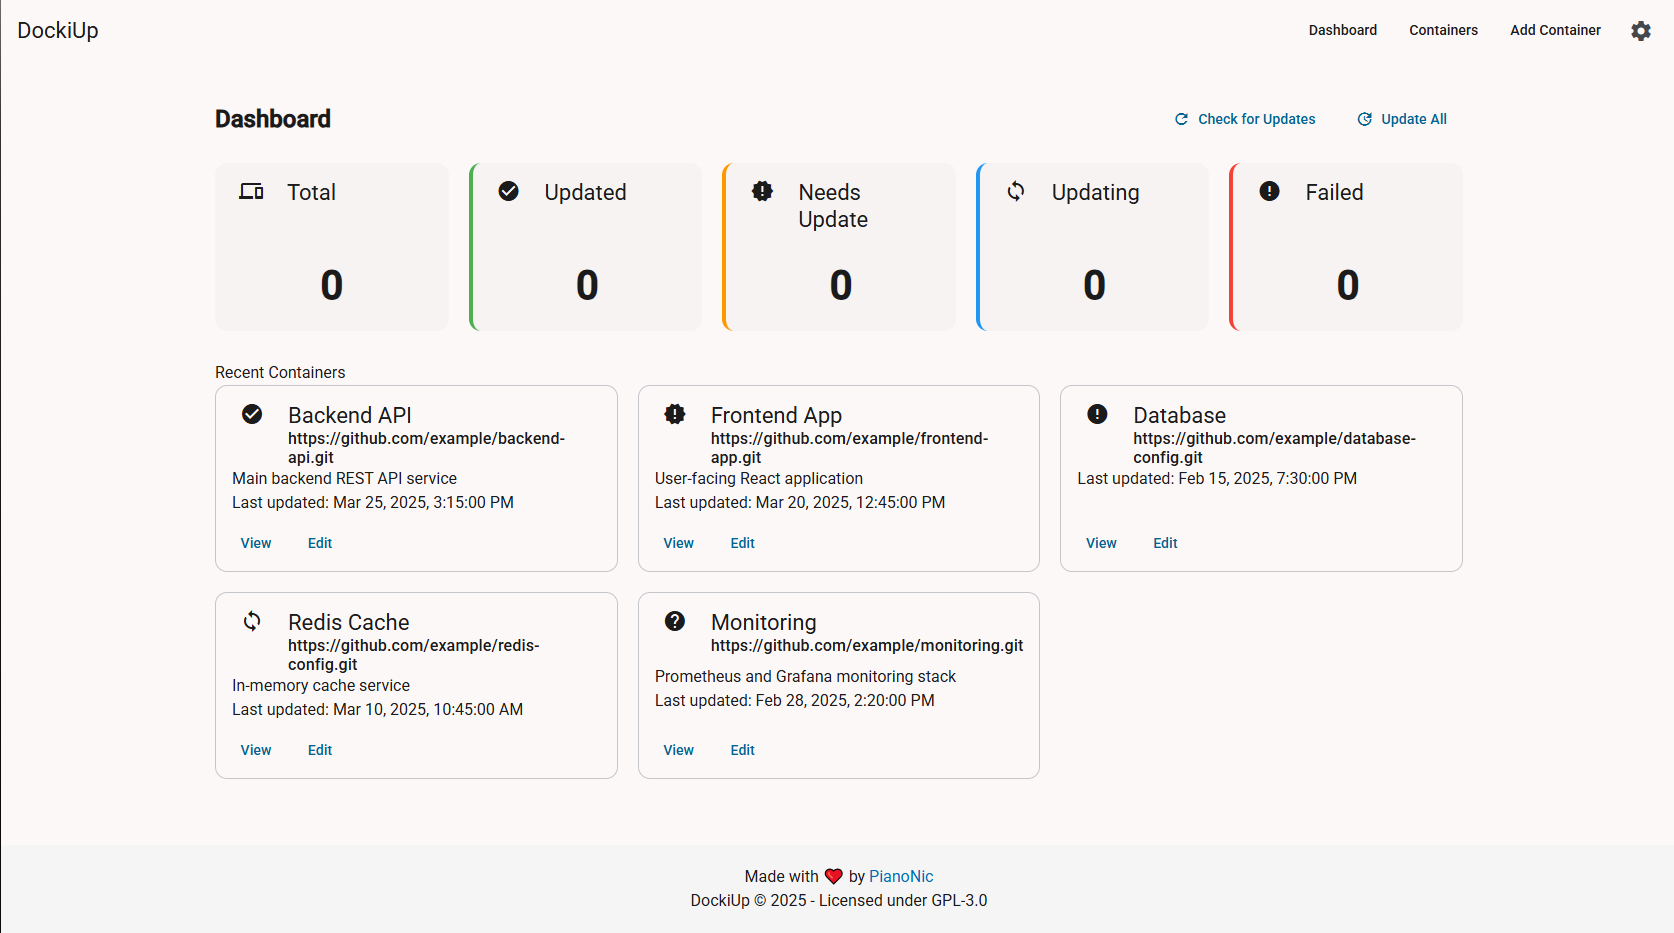
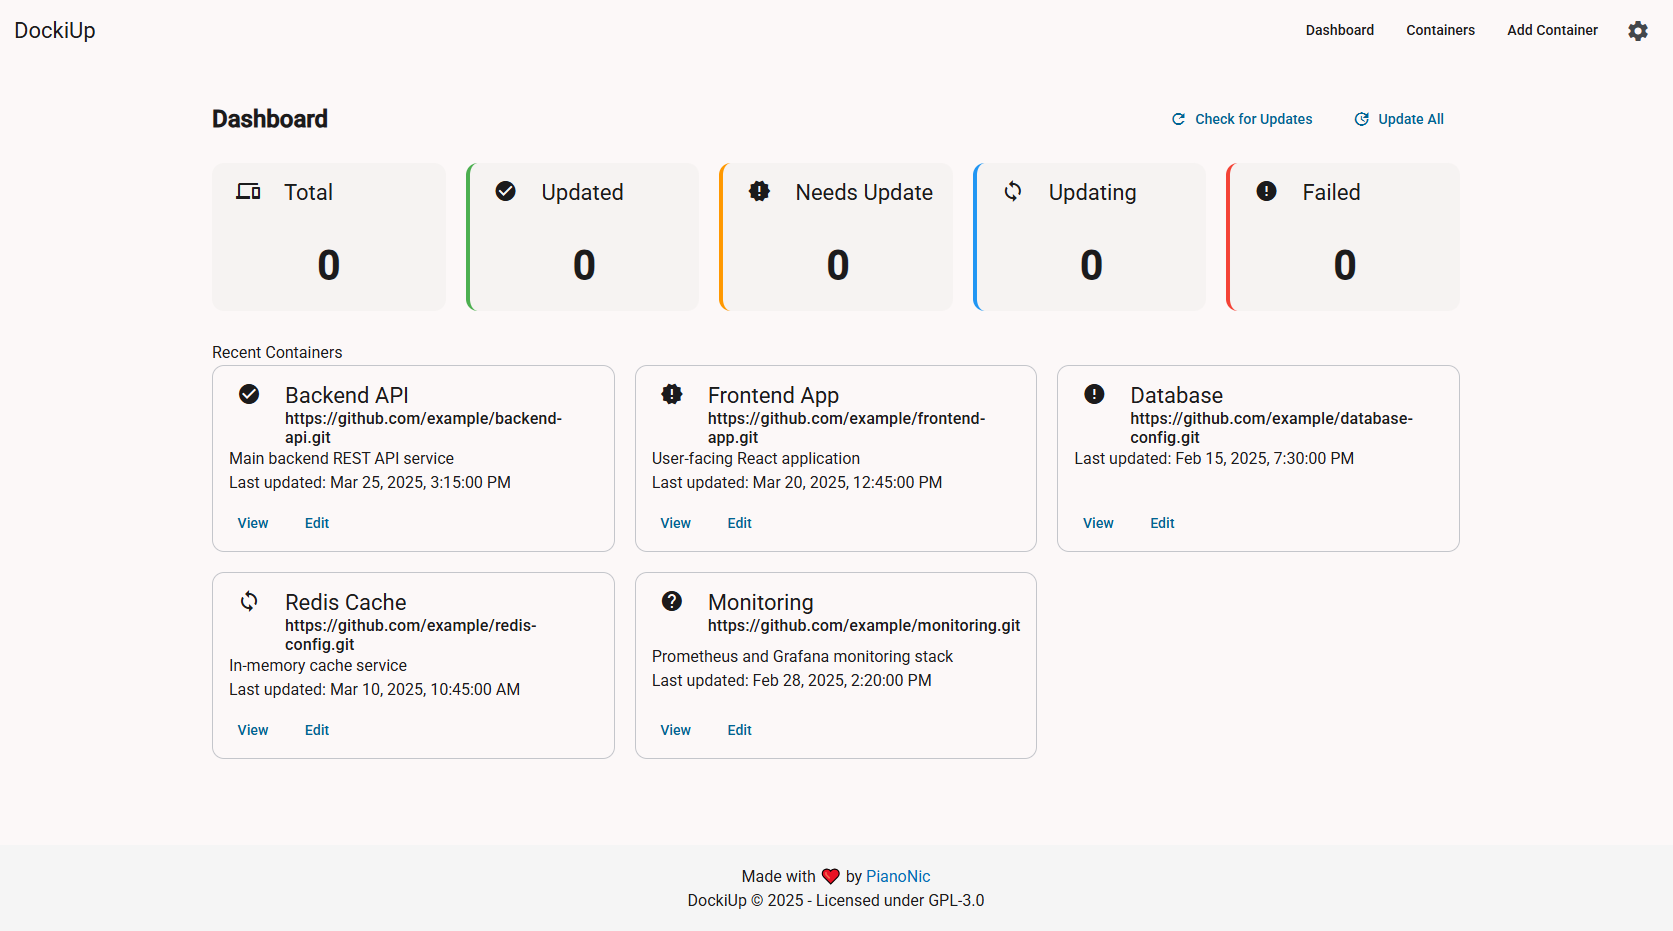
Implement create and import container dialogs; remove unused modal components

diff --git a/src/DockiUp.Frontend/src/app/modals/create-edit-container-modal/create-edit-container-modal.component.html b/src/DockiUp.Frontend/src/app/modals/create-edit-container-modal/create-edit-container-modal.component.html
@@ -1,0 +1,55 @@
+<h2 mat-dialog-title>
+    <span *ngIf="inEditMode; else createMode">Edit Container</span>
+    <ng-template #createMode><span>Create Container</span></ng-template>
+</h2>
+<mat-dialog-content>
+    <form [formGroup]="createEditFormGroup">
+        <mat-form-field appearance="fill" class="full-width">
+            <mat-label>Container Name</mat-label>
+            <input matInput formControlName="name" required maxlength="20">
+            <mat-error *ngIf="createEditFormGroup.get('name')?.hasError('required')">
+                Container Name is required.
+            </mat-error>
+            <mat-error *ngIf="createEditFormGroup.get('name')?.hasError('minlength')">
+                Minimum 3 characters required.
+            </mat-error>
+            <mat-error *ngIf="createEditFormGroup.get('name')?.hasError('maxlength')">
+                Maximum 20 characters allowed.
+            </mat-error>
+            <mat-error *ngIf="createEditFormGroup.get('name')?.hasError('pattern')">
+                Container Name cannot be empty or whitespace.
+            </mat-error>
+            <mat-hint align="end">{{ createEditFormGroup.get('name')?.value?.length || 0 }}/20</mat-hint>
+        </mat-form-field>
+        
+        <mat-form-field appearance="fill" class="full-width">
+            <mat-label>Git URL</mat-label>
+            <input matInput formControlName="gitUrl" placeholder="https://github.com/username/repo" required maxlength="100">
+            <mat-error *ngIf="createEditFormGroup.get('gitUrl')?.hasError('required')">
+                Git URL is required.
+            </mat-error>
+            <mat-error *ngIf="createEditFormGroup.get('gitUrl')?.hasError('pattern')">
+                Enter a valid URL (e.g., https://example.com).
+            </mat-error>
+            <mat-error *ngIf="createEditFormGroup.get('gitUrl')?.hasError('maxlength')">
+                Maximum 100 characters allowed.
+            </mat-error>
+            <mat-hint align="end">{{ createEditFormGroup.get('gitUrl')?.value?.length || 0 }}/100</mat-hint>
+        </mat-form-field>
+        
+        <mat-form-field appearance="fill" class="full-width">
+            <mat-label>Description</mat-label>
+            <textarea matInput formControlName="description" rows="2" maxlength="100"></textarea>
+            <mat-error *ngIf="createEditFormGroup.get('description')?.hasError('maxlength')">
+                Maximum 100 characters allowed.
+            </mat-error>
+            <mat-hint align="end">{{ createEditFormGroup.get('description')?.value?.length || 0 }}/100</mat-hint>
+        </mat-form-field>        
+    </form>
+</mat-dialog-content>
+<mat-dialog-actions align="end">
+    <button mat-button mat-dialog-close>Cancel</button>
+    <button mat-button color="primary" [disabled]="createEditFormGroup.invalid" (click)="onSubmit()">
+        {{ inEditMode ? 'Update' : 'Create' }}
+    </button>
+</mat-dialog-actions>

diff --git a/src/DockiUp.Frontend/src/app/modals/create-edit-container-modal/create-edit-container-modal.component.ts b/src/DockiUp.Frontend/src/app/modals/create-edit-container-modal/create-edit-container-modal.component.ts
@@ -1,0 +1,89 @@
+import { Component, Inject, OnInit } from '@angular/core';
+import { MatButtonModule } from '@angular/material/button';
+import {
+  MatDialogActions,
+  MatDialogClose,
+  MatDialogContent,
+  MatDialogTitle,
+  MatDialogRef,
+  MAT_DIALOG_DATA
+} from '@angular/material/dialog';
+import { MatSelectModule } from '@angular/material/select';
+import { MatInputModule } from '@angular/material/input';
+import { MatFormFieldModule } from '@angular/material/form-field';
+import { FormControl, FormGroup, Validators, ReactiveFormsModule } from '@angular/forms';
+import { CommonModule } from '@angular/common';
+
+interface DialogData {
+  inEditMode: boolean;
+  containerData?: any;
+}
+
+@Component({
+  selector: 'app-create-edit-container-modal',
+  standalone: true,
+  imports: [
+    CommonModule,
+    ReactiveFormsModule,
+    MatButtonModule,
+    MatDialogActions,
+    MatDialogClose,
+    MatDialogTitle,
+    MatDialogContent,
+    MatFormFieldModule,
+    MatInputModule,
+    MatSelectModule
+  ],
+  templateUrl: './create-edit-container-modal.component.html',
+  styleUrl: './create-edit-container-modal.component.scss'
+})
+export class CreateEditContainerModalComponent implements OnInit {
+  inEditMode: boolean;
+  createEditFormGroup: FormGroup;
+
+  constructor(
+    private dialogRef: MatDialogRef<CreateEditContainerModalComponent>,
+    @Inject(MAT_DIALOG_DATA) public data: DialogData
+  ) {
+    this.inEditMode = data.inEditMode;
+
+    this.createEditFormGroup = new FormGroup({
+      name: new FormControl('', [
+        Validators.required,
+        Validators.minLength(3),
+        Validators.maxLength(20),
+        Validators.pattern('^(?!\\s*$).+')
+      ]),
+      gitUrl: new FormControl('', [
+        Validators.required,
+        Validators.pattern('^https?://.*'),
+        Validators.maxLength(100),
+        Validators.pattern('^(?!\\s*$).+')
+      ]),
+      description: new FormControl('', [
+        Validators.maxLength(100)
+      ])
+    });
+  }
+
+  ngOnInit(): void {
+    // Populate form if in edit mode
+    if (this.inEditMode && this.data.containerData) {
+      this.createEditFormGroup.patchValue({
+        name: this.data.containerData.name,
+        gitUrl: this.data.containerData.gitUrl,
+        description: this.data.containerData.description
+      });
+    }
+  }
+
+  onSubmit(): void {
+    if (this.createEditFormGroup.valid) {
+      this.dialogRef.close(this.createEditFormGroup.value);
+    }
+  }
+
+  onCancel(): void {
+    this.dialogRef.close();
+  }
+}

diff --git a/src/DockiUp.Frontend/src/app/components/add-container-button/add-container-button.component.ts b/src/DockiUp.Frontend/src/app/components/add-container-button/add-container-button.component.ts
@@ -2,10 +2,15 @@ import { Component } from '@angular/core';
 import { MatButtonModule } from '@angular/material/button';
 import { MatMenuModule } from '@angular/material/menu';
 import { MatIconModule } from '@angular/material/icon';
+import { MatDialog } from '@angular/material/dialog';
+import { CommonModule } from '@angular/common';
+import { CreateEditContainerModalComponent } from '../../modals/create-edit-container-modal/create-edit-container-modal.component';
 
 @Component({
   selector: 'add-container-button',
+  standalone: true,
   imports: [
+    CommonModule,
     MatButtonModule,
     MatMenuModule,
     MatIconModule
@@ -14,5 +19,36 @@ import { MatIconModule } from '@angular/material/icon';
   styleUrl: './add-container-button.component.scss'
 })
 export class AddContainerButtonComponent {
+  constructor(private dialog: MatDialog) {}
 
+  openCreateDialog(): void {
+    const dialogRef = this.dialog.open(CreateEditContainerModalComponent, {
+      width: '500px',
+      data: { inEditMode: false }
+    });
+
+    dialogRef.afterClosed().subscribe(result => {
+      if (result) {
+        console.log('Container created:', result);
+        // Handle the created container data here
+        // For example, send it to a service to save it
+      }
+    });
+  }
+
+  openImportDialog(): void {
+    // // You can either reuse the same dialog with different configuration
+    // // or create a separate import dialog component
+    // const dialogRef = this.dialog.open(CreateEditContainerModalComponent, {
+    //   width: '500px',
+    //   data: { inEditMode: false, isImport: true }
+    // });
+
+    // dialogRef.afterClosed().subscribe(result => {
+    //   if (result) {
+    //     console.log('Container imported:', result);
+    //     // Handle the imported container data here
+    //   }
+    // });
+  }
 }

diff --git a/src/DockiUp.Frontend/src/app/components/add-container-button/add-container-button.component.html b/src/DockiUp.Frontend/src/app/components/add-container-button/add-container-button.component.html
@@ -1,10 +1,10 @@
 <button mat-button [matMenuTriggerFor]="menu">Add Container</button>
 <mat-menu #menu="matMenu">
-    <button mat-menu-item>
+    <button mat-menu-item (click)="openCreateDialog()">
         <mat-icon>add_circle</mat-icon>
         Create New
     </button>
-    <button mat-menu-item>
+    <button mat-menu-item (click)="openImportDialog()">
         <mat-icon>file_upload</mat-icon>
         Import
     </button>

diff --git a/src/DockiUp.Frontend/src/app/pages/dashboard/dashboard.component.scss b/src/DockiUp.Frontend/src/app/pages/dashboard/dashboard.component.scss
@@ -22,6 +22,14 @@
     margin-bottom: 30px;
 }
 
+mat-card {
+    overflow: hidden;
+}
+
+mat-card-title {
+    white-space: nowrap;
+}
+
 .status-card {
     &.updated {
         border-left: 4px solid #4caf50;
@@ -49,7 +57,6 @@
     display: flex;
     justify-content: center;
     align-items: center;
-    padding: 20px 0;
 }
 
 .count {

diff --git a/src/DockiUp.Frontend/src/app/modals/create-edit-container-modal/create-edit-container-modal.component.scss b/src/DockiUp.Frontend/src/app/modals/create-edit-container-modal/create-edit-container-modal.component.scss
@@ -1,0 +1,3 @@
+.full-width {
+    width: 100%;
+}
